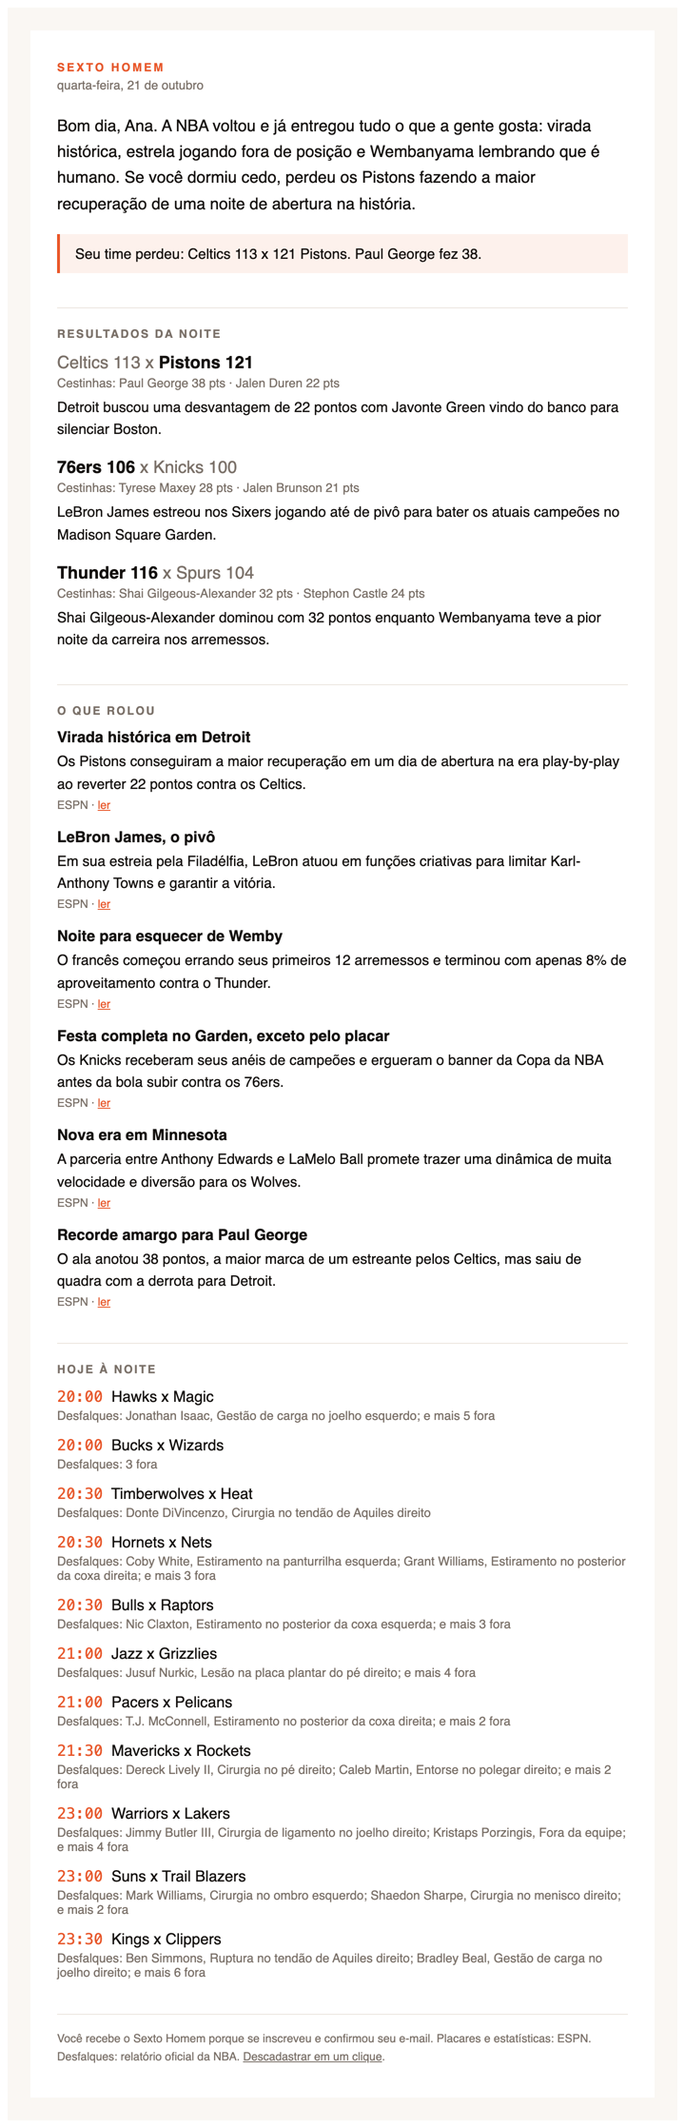
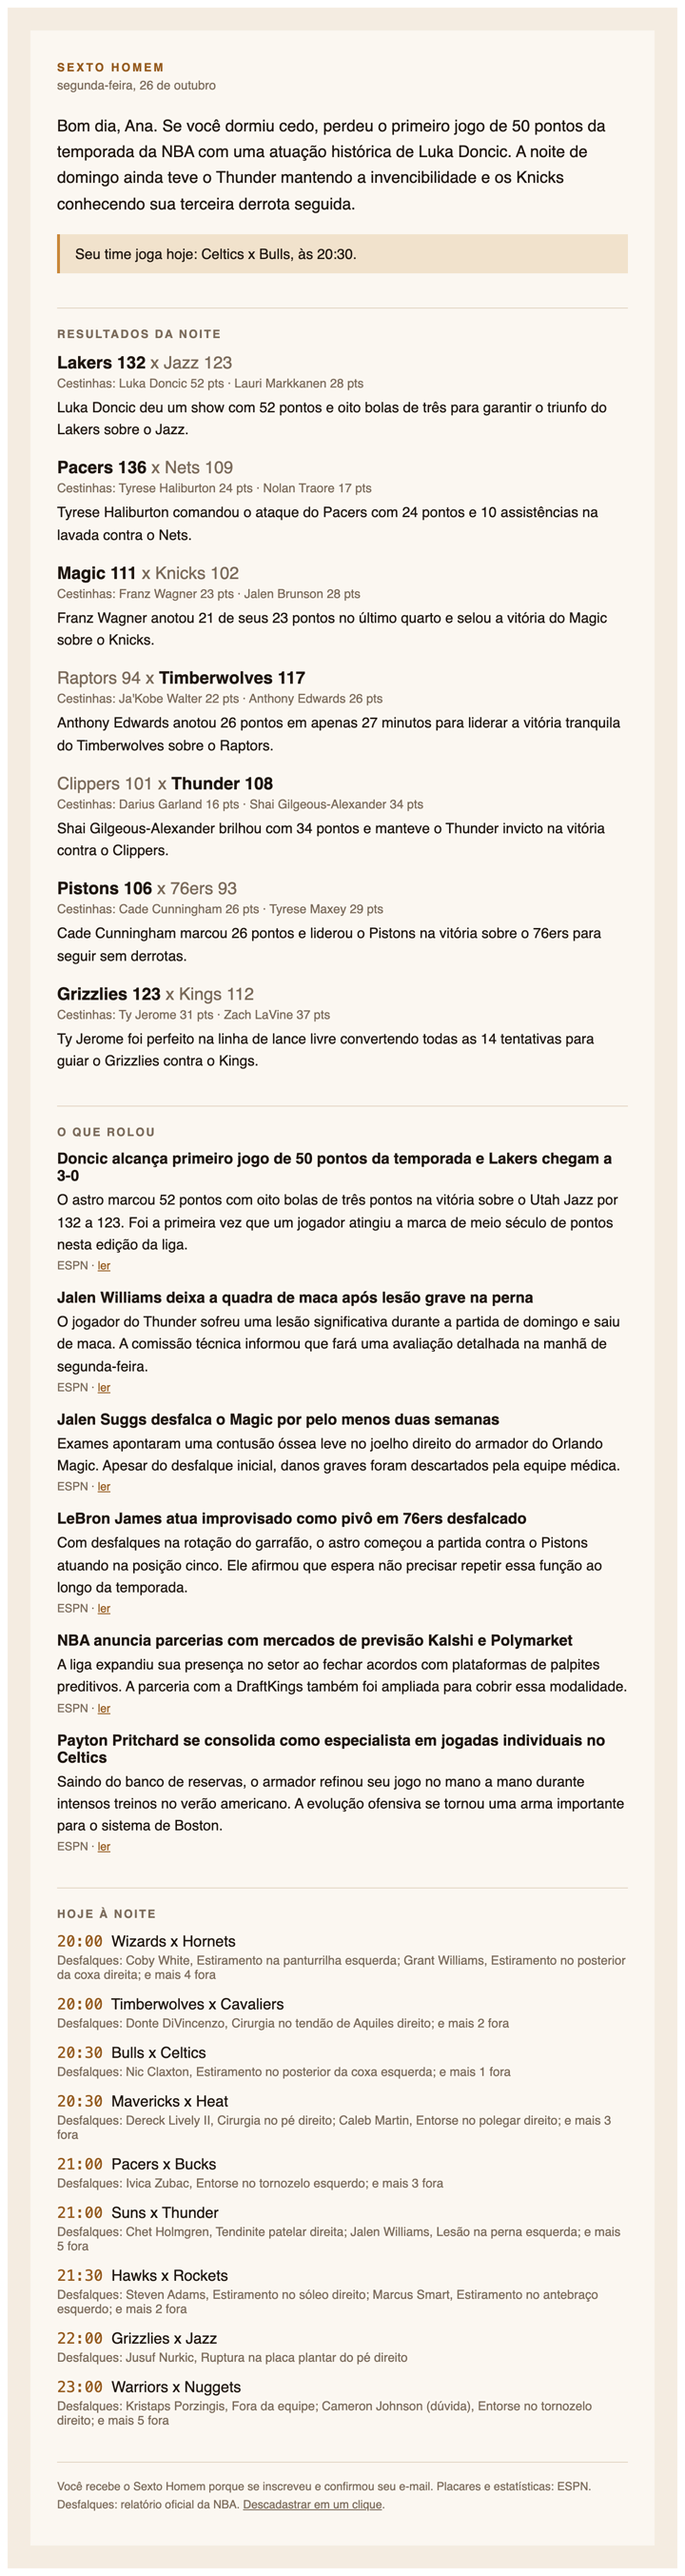
feat: paleta madeira da quadra no site e nos e-mails

Changed region(s): [[0.0611, 0.0, 0.9167, 0.9875]]

diff --git a/workflows/codigo/montar-edicao.js b/workflows/codigo/montar-edicao.js
@@ -4,7 +4,8 @@
 
 const esc = (s) => String(s ?? "").replace(/[&<>"']/g, (c) => ({ "&": "&amp;", "<": "&lt;", ">": "&gt;", '"': "&quot;", "'": "&#39;" })[c]);
 const NOME_FONTE = { espn_br: "ESPN Brasil", lance: "Lance!", espn: "ESPN" };
-const COR = { tinta: "#14110f", apagado: "#7a7068", linha: "#ece6df", laranja: "#e8572a", fundo: "#faf7f3" };
+// Hardwood palette, same as the site: cream, dark brown, amber wood.
+const COR = { tinta: "#1e1610", apagado: "#7a6a5a", linha: "#e3d6c5", laranja: "#94591c", fundo: "#f4ece1", cartao: "#fbf7f1" };
 
 function lerIA(resposta) {
   try {
@@ -88,7 +89,7 @@ function montarEdicao({ dataEdicao, resultados, agenda, noticias, desfalques }, 
 
   const avisos = [resultados.falha, agenda.falha, desfalques.falha].filter(Boolean);
   const assunto = (ia?.assunto ?? `O que rolou na NBA: ${dataPorExtenso(dataEdicao)}`).slice(0, 90);
-  const html = `<div style="background:${COR.fundo};padding:24px 0"><div style="font-family:Helvetica,Arial,sans-serif;max-width:600px;margin:0 auto;padding:32px 28px;background:#fff;color:${COR.tinta}">
+  const html = `<div style="background:${COR.fundo};padding:24px 0"><div style="font-family:Helvetica,Arial,sans-serif;max-width:600px;margin:0 auto;padding:32px 28px;background:${COR.cartao};color:${COR.tinta}">
 <p style="margin:0;font-size:12px;letter-spacing:.18em;text-transform:uppercase;color:${COR.laranja};font-weight:700">Sexto Homem</p>
 <p style="margin:4px 0 0;font-size:13px;color:${COR.apagado}">${esc(dataPorExtenso(dataEdicao))}</p>
 <p style="margin:22px 0 0;font-size:17px;line-height:1.6">Bom dia, {{NOME}}. ${esc(ia?.abertura ?? "Aqui está o que rolou na NBA enquanto você dormia.")}</p>

diff --git a/site/src/app/globals.css b/site/src/app/globals.css
@@ -1,16 +1,18 @@
 @import "tailwindcss";
 
 @theme {
-  --color-bg: #fbfaf8;
-  --color-card: #ffffff;
-  --color-ink: #121110;
-  --color-bola: #ff5a1f; /* basketball orange */
-  --color-bola-suave: #fff1ea;
-  --color-linha: #e7e3dd;
-  --color-texto: #121110;
-  --color-apagado: #6e6862;
-  --color-ok: #1f7a4d;
-  --color-erro: #c2321f;
+  /* Hardwood: the colours of a basketball court floor. */
+  --color-bg: #f4ece1; /* cream */
+  --color-card: #fbf7f1;
+  --color-ink: #1e1610; /* dark brown */
+  --color-bola: #c8873a; /* amber wood: fills, lines, dots */
+  --color-bola-texto: #94591c; /* the same wood, dark enough for small text */
+  --color-bola-suave: #f1e2cc;
+  --color-linha: #e3d6c5;
+  --color-texto: #1e1610;
+  --color-apagado: #7a6a5a;
+  --color-ok: #3d6b3a;
+  --color-erro: #a8321f;
 
   --font-sans: var(--font-inter), ui-sans-serif, system-ui, sans-serif;
   --font-placar: var(--font-barlow), "Arial Narrow", sans-serif;

diff --git a/site/src/app/page.tsx b/site/src/app/page.tsx
@@ -11,7 +11,7 @@ export default function Inicio() {
   return (
     <div className="mx-auto grid max-w-6xl gap-12 px-5 pb-16 pt-8 sm:px-8 lg:grid-cols-[1.05fr_1fr] lg:gap-16 lg:pt-16">
       <section>
-        <p className="text-sm font-semibold uppercase tracking-[0.16em] text-bola">Todo dia às 8h · em português · de graça</p>
+        <p className="text-sm font-semibold uppercase tracking-[0.16em] text-bola-texto">Todo dia às 8h · em português · de graça</p>
         <h1 className="mt-4 font-placar text-6xl font-extrabold uppercase leading-[0.9] tracking-tight sm:text-7xl">
           A NBA da noite,
           <br />

diff --git a/workflows/codigo/personalizar.js b/workflows/codigo/personalizar.js
@@ -18,7 +18,7 @@ function personalizar(edicao, inscrito, siteUrl) {
     destaque = `Seu time joga hoje: ${meu.apelido} x ${outro.apelido}, às ${hoje.hora}.`;
   }
   const bloco = destaque
-    ? `<p style="margin:18px 0 0;padding:12px 16px;background:#fdf1ec;border-left:3px solid #e8572a;font-size:15px">${destaque.replace(/[<>&]/g, "")}</p>`
+    ? `<p style="margin:18px 0 0;padding:12px 16px;background:#f1e2cc;border-left:3px solid #c8873a;font-size:15px">${destaque.replace(/[<>&]/g, "")}</p>`
     : "";
   const primeiroNome = String(inscrito.nome).trim().split(/\s+/)[0].replace(/[<>&"]/g, "");
   return {

diff --git a/site/src/app/layout.tsx b/site/src/app/layout.tsx
@@ -17,7 +17,7 @@ export default function RootLayout({ children }: LayoutProps<"/">) {
       <body className="flex min-h-full flex-col">
         <header className="mx-auto flex w-full max-w-6xl items-center justify-between px-5 py-5 sm:px-8">
           <Link href="/" className="font-placar text-2xl font-extrabold uppercase tracking-wide">
-            Sexto <span className="text-bola">Homem</span>
+            Sexto <span className="text-bola-texto">Homem</span>
           </Link>
           <a
             href="https://github.com/guialmm/sexto-homem"

diff --git a/site/src/components/Aviso.tsx b/site/src/components/Aviso.tsx
@@ -7,7 +7,7 @@ export function Aviso({ titulo, children, voltar = true }: { titulo: string; chi
       <h1 className="font-placar text-5xl font-extrabold uppercase leading-none">{titulo}</h1>
       <div className="mt-5 text-lg text-apagado">{children}</div>
       {voltar && (
-        <Link href="/" className="mt-8 inline-block text-sm font-semibold text-bola hover:underline">
+        <Link href="/" className="mt-8 inline-block text-sm font-semibold text-bola-texto hover:underline">
           Voltar para o início
         </Link>
       )}

diff --git a/README.md b/README.md
@@ -9,7 +9,7 @@ workflow no **n8n**, sem ninguém encostar em nada.
 
 | A edição | O site de inscrição |
 |---|---|
-| ![Edição de 21/10/2026, a da noite de abertura da temporada](docs/edicao.png) | ![Site com o formulário e a prévia da última edição enviada](docs/site.png) |
+| ![Edição de 26/10/2026, a da noite dos 52 pontos de Luka Doncic](docs/edicao.png) | ![Site com o formulário e a prévia da última edição enviada](docs/site.png) |
 
 ## O workflow
 
